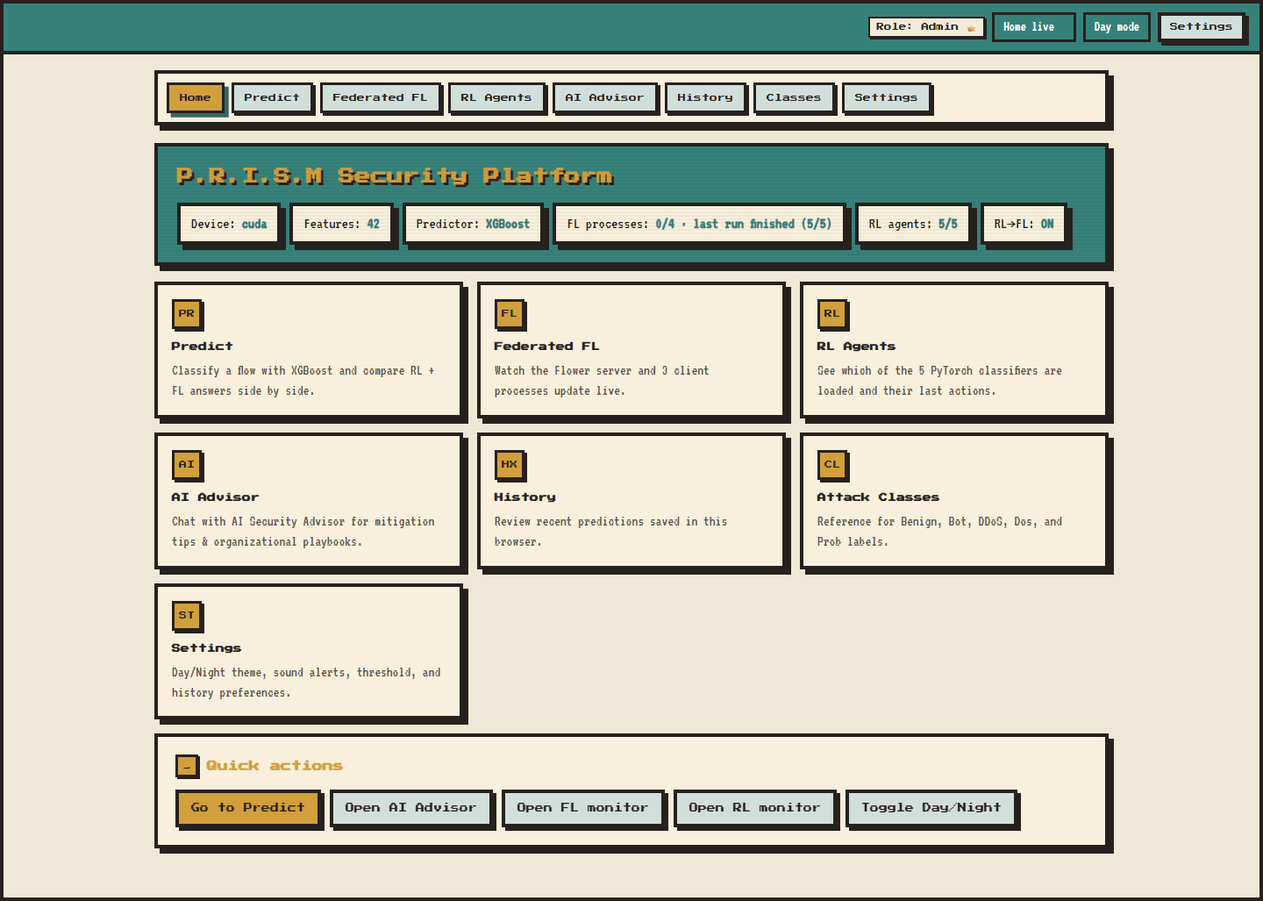
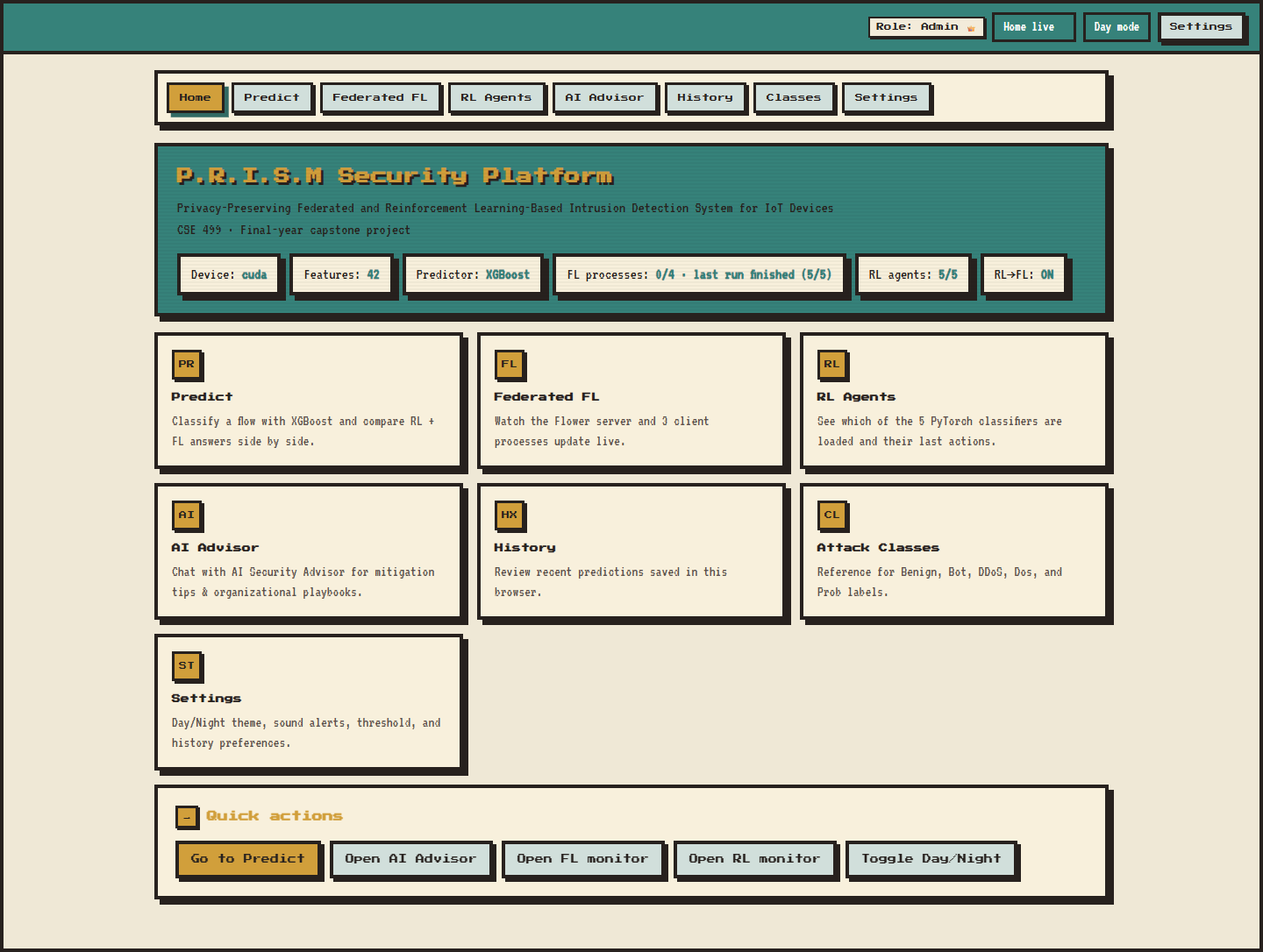
Update full project title and CSE 499 course labels

Changed region(s): [[0.0, 0.0, 1.0, 0.9659]]

diff --git a/templates/poster.html b/templates/poster.html
@@ -2,7 +2,7 @@
 <html lang="en">
 <head>
   <meta charset="UTF-8">
-  <title>A0 Research Poster — P.R.I.S.M: Privacy-Preserving Federated Reinforcement Learning</title>
+  <title>A0 Research Poster — Privacy-Preserving Federated and Reinforcement Learning-Based Intrusion Detection System for IoT Devices</title>
   <style>
     @page {
       size: A0 landscape;
@@ -238,13 +238,13 @@
   <!-- HEADER -->
   <header class="poster-header">
     <h1 class="poster-title">
-      P.R.I.S.M: Privacy-Preserving Federated and Reinforcement Learning-Based Threat Detection System for IoT Devices
+      Privacy-Preserving Federated and Reinforcement Learning-Based Intrusion Detection System for IoT Devices
     </h1>
     <div class="poster-authors">
       Research Team: Cyber-Physical Security &amp; Intelligent Networks Lab
     </div>
     <div class="poster-affiliation">
-      Department of Computer Science and Engineering (CSE499B Senior Design Project)
+      Department of Computer Science and Engineering (CSE 499 Senior Design Project)
     </div>
   </header>
 
@@ -363,7 +363,7 @@
 
   <!-- FOOTER -->
   <footer class="poster-footer">
-    <div>Project Codebase: <code>e:\CSE499B\Latest One(FL+RL)</code></div>
+    <div>Project Codebase: <code>github.com/Shahriar811/P.R.I.S.M</code></div>
     <div>Live Web Dashboard: <code>http://127.0.0.1:7860/poster</code></div>
     <div>A0 Print Size: 841mm x 1189mm</div>
   </footer>

diff --git a/templates/base.html b/templates/base.html
@@ -3,6 +3,7 @@
 <head>
 <meta charset="utf-8">
 <meta name="viewport" content="width=device-width,initial-scale=1">
+<meta name="description" content="Privacy-Preserving Federated and Reinforcement Learning-Based Intrusion Detection System for IoT Devices — CSE 499 final-year capstone project.">
 <title>{% block title %}P.R.I.S.M{% endblock %}</title>
 <script src="https://cdn.jsdelivr.net/npm/chart.js@4"></script>
 <link rel="preconnect" href="https://fonts.googleapis.com">

diff --git a/templates/home.html b/templates/home.html
@@ -3,6 +3,8 @@
 {% block content %}
 <section class="page-hero">
   <h1>P.R.I.S.M Security Platform</h1>
+  <p>Privacy-Preserving Federated and Reinforcement Learning-Based Intrusion Detection System for IoT Devices</p>
+  <p>CSE 499 · Final-year capstone project</p>
 
   <div class="stats-bar admin-only">
     <div class="stat-chip">Device: <span class="val" id="statDevice">—</span></div>

diff --git a/build_499b_report.py b/build_499b_report.py
@@ -57,7 +57,7 @@ def add_header_footer(doc):
     header = section.header
     hp = header.paragraphs[0]
     hp.alignment = WD_ALIGN_PARAGRAPH.RIGHT
-    hrun = hp.add_run("CSE499B Senior Project Report | Group 2 | Chapter 4 & Chapter 7")
+    hrun = hp.add_run("CSE 499 Senior Project Report | Group 2 | Chapter 4 & Chapter 7")
     hrun.font.name = 'Calibri'
     hrun.font.size = Pt(8.5)
     hrun.font.color.rgb = COLOR_MUTED
@@ -88,7 +88,7 @@ def add_title_block(doc):
     p2 = doc.add_paragraph()
     p2.alignment = WD_ALIGN_PARAGRAPH.CENTER
     format_paragraph(p2, space_before=0, space_after=18)
-    run2 = p2.add_run("Department of Electrical and Computer Engineering\nSenior Design Capstone Project Report (CSE499B)")
+    run2 = p2.add_run("Department of Electrical and Computer Engineering\nSenior Design Capstone Project Report (CSE 499)")
     run2.font.name = 'Calibri'
     run2.font.size = Pt(13)
     run2.font.color.rgb = COLOR_SECONDARY
@@ -96,7 +96,7 @@ def add_title_block(doc):
     p3 = doc.add_paragraph()
     p3.alignment = WD_ALIGN_PARAGRAPH.CENTER
     format_paragraph(p3, space_before=6, space_after=18)
-    run3 = p3.add_run("Privacy-Preserved Federated Learning and Reinforcement Learning Framework for Cyber-Physical Systems Intrusion Detection")
+    run3 = p3.add_run("Privacy-Preserving Federated and Reinforcement Learning-Based Intrusion Detection System for IoT Devices")
     run3.font.name = 'Calibri'
     run3.font.size = Pt(16)
     run3.font.bold = True
@@ -274,9 +274,9 @@ def build_document():
     
     add_body_p(doc, "While CSE499A successfully proved that intrusion detection can function under simulated federated data splits, it retained four critical operational limitations: (1) static detection logic vulnerable to concept drift, (2) reliance on simulated client partitioning rather than a production client-server network framework, (3) lack of continuous reinforcement learning adaptation for dynamic attack mitigation, and (4) absence of explainable AI (XAI) for real-time security analyst interpretability.")
     
-    add_body_p(doc, "This report documents the CSE499B project extension, specifically detailing the author's primary contributions across Chapter 4 (Methodology) and Chapter 7 (Practical Usage & Dashboard Application). CSE499B transitions the framework from an offline simulation into a production-grade, multi-process client-server Federated Learning (FL) architecture, an integrated Dueling Deep Q-Network (DQN) Reinforcement Learning (RL) continual learning pipeline, a dual-layer Explainable AI (SHAP + Groq Llama 3.3 70B LLM) engine, and an interactive multi-page web security dashboard with live packet sniffing and secure HTTPS remote access via ngrok.")
+    add_body_p(doc, "This report documents the CSE 499 project extension, specifically detailing the author's primary contributions across Chapter 4 (Methodology) and Chapter 7 (Practical Usage & Dashboard Application). CSE 499 transitions the framework from an offline simulation into a production-grade, multi-process client-server Federated Learning (FL) architecture, an integrated Dueling Deep Q-Network (DQN) Reinforcement Learning (RL) continual learning pipeline, a dual-layer Explainable AI (SHAP + Groq Llama 3.3 70B LLM) engine, and an interactive multi-page web security dashboard with live packet sniffing and secure HTTPS remote access via ngrok.")
 
-    add_callout_box(doc, "CSE499A achieved offline detection accuracy of 84.03% (XGBoost) and 80.35% (simulated FL-GRU). CSE499B elevates this baseline into a production-ready, client-server federated RL system with real-time continuous learning, SHAP feature impact attribution, Groq LLM natural language threat explanations, live packet sniffing, and ngrok HTTPS remote deployment.", "HISTORICAL BRIDGE: CSE499A VS CSE499B")
+    add_callout_box(doc, "CSE499A achieved offline detection accuracy of 84.03% (XGBoost) and 80.35% (simulated FL-GRU). CSE 499 elevates this baseline into a production-ready, client-server federated RL system with real-time continuous learning, SHAP feature impact attribution, Groq LLM natural language threat explanations, live packet sniffing, and ngrok HTTPS remote deployment.", "HISTORICAL BRIDGE: CSE499A VS CSE 499")
 
     # ---------------------------------------------------------
     # CHAPTER 4: METHODOLOGY
@@ -284,7 +284,7 @@ def build_document():
     add_heading_1(doc, "Chapter 4: Methodology")
     
     add_heading_2(doc, "4.1 Production Federated Learning Architecture (Main Client-Server System)")
-    add_body_p(doc, "Unlike simulation-based federated learning setups that partition static data arrays in memory within a single Python script, the CSE499B production architecture implements a decentralized, multi-process client-server system built upon the Flower (flwr) framework. The architecture decouples the central aggregator from independent edge clients, enabling federated model updates over real network interfaces via gRPC (Google Remote Procedure Call) protocols.")
+    add_body_p(doc, "Unlike simulation-based federated learning setups that partition static data arrays in memory within a single Python script, the CSE 499 production architecture implements a decentralized, multi-process client-server system built upon the Flower (flwr) framework. The architecture decouples the central aggregator from independent edge clients, enabling federated model updates over real network interfaces via gRPC (Google Remote Procedure Call) protocols.")
     
     add_body_p(doc, "The production FL system consists of two primary operational entities:", "System Component Breakdown: ")
     add_body_p(doc, "Operating via federated/rl_server.py on TCP port 8080. The server initializes global neural network weights, coordinates communication rounds, enforces minimum client quorum requirements (min_fit_clients = 3), collects client parameter updates, executes weighted Federated Averaging (FedAvg), and evaluates global test metrics against a held-out evaluation dataset (test.npz).", "1. Central FL Aggregator Server: ")
@@ -307,7 +307,7 @@ def build_document():
     add_styled_table(doc, headers_t41, data_t41, [1.8, 2.2, 2.5])
 
     add_heading_2(doc, "4.2 The RL + FL Integrated Pipeline & Working Methodology")
-    add_body_p(doc, "A central innovation of CSE499B is the integration of Reinforcement Learning (RL) with Federated Learning (FL) into a unified, self-improving security pipeline. While supervised federated learning models are rigid once trained, reinforcement learning allows defensive agents to continuously adapt to changing network behaviors and novel attack vectors.")
+    add_body_p(doc, "A central innovation of CSE 499 is the integration of Reinforcement Learning (RL) with Federated Learning (FL) into a unified, self-improving security pipeline. While supervised federated learning models are rigid once trained, reinforcement learning allows defensive agents to continuously adapt to changing network behaviors and novel attack vectors.")
 
     add_body_p(doc, "The RL framework employs a Dueling Deep Q-Network (Dueling DQN) architecture. In standard DQN, the neural network directly estimates the Q-value $Q(s, a)$ for each action $a$ given state $s$. Dueling DQN decouples this calculation into two separate streams:", "Mathematical Formulation of Dueling DQN: ")
     add_body_p(doc, "1. Value Stream $V(s): \\mathbb{R}^{42} \\rightarrow \\mathbb{R}^1$, which estimates the scalar value of being in current network state $s$.\n2. Advantage Stream $A(s, a): \\mathbb{R}^{42} \\rightarrow \\mathbb{R}^5$, which evaluates the relative advantage of choosing each specific attack class action $a \\in \\{\\text{Benign, DoS, DDoS, Bot, Prob}\\}$.")
@@ -340,7 +340,7 @@ def build_document():
     add_styled_table(doc, headers_t42, data_t42, [1.8, 2.0, 2.7])
 
     add_heading_2(doc, "4.3 Dual-Layer Explainable AI (XAI) & LLM Framework")
-    add_body_p(doc, "Machine learning and deep learning models in intrusion detection are frequently criticized as 'black boxes', making security analysts hesitant to trust automated alerts. CSE499B resolves this by introducing a Dual-Layer Explainable AI (XAI) framework that combines quantitative feature attribution with generative natural language explanations.")
+    add_body_p(doc, "Machine learning and deep learning models in intrusion detection are frequently criticized as 'black boxes', making security analysts hesitant to trust automated alerts. CSE 499 resolves this by introducing a Dual-Layer Explainable AI (XAI) framework that combines quantitative feature attribution with generative natural language explanations.")
 
     add_image_figure(doc, "xai_llm_flow.png", "Figure 4.4: Dual-Layer Explainable AI Pipeline incorporating SHAP feature attribution and Groq Llama 3.3 70B LLM explanations.")
 
@@ -369,7 +369,7 @@ def build_document():
     add_heading_1(doc, "Chapter 7: Practical Usage & Dashboard Application")
 
     add_heading_2(doc, "7.1 FL Aggregation Protocol & Privacy Infrastructure")
-    add_body_p(doc, "The deployment of federated learning in practical security operations requires a robust aggregation protocol that balances privacy protection with model convergence speed. CSE499B implements a 5-step aggregation protocol sequence over gRPC channels:")
+    add_body_p(doc, "The deployment of federated learning in practical security operations requires a robust aggregation protocol that balances privacy protection with model convergence speed. CSE 499 implements a 5-step aggregation protocol sequence over gRPC channels:")
 
     add_body_p(doc, "1. Round Initialization: The central server (rl_server.py) broadcasts current global Dueling DQN neural network parameters $w_t$ to all connected edge client nodes.\n2. Local Model Updates: Each edge client loads $w_t$, attaches its private local dataset, and executes 2 epochs of Adam optimization. Raw network flow logs remain sealed inside local storage.\n3. Weight Parameter Transmission: Edge clients extract updated state dictionaries $w_{t+1}^k$ and transmit parameter matrices along with sample count $n_k$ back to the server over gRPC on port 8080.\n4. Weighted Aggregation: The server computes the element-wise weighted average of received weight tensors using the FedAvg equation.\n5. Global State Serialization: The aggregated global model is evaluated against held-out validation data (test.npz) and saved to global_model.pt and Saved model/FL/federated_rl_fedavg.pt.")
 
@@ -388,7 +388,7 @@ def build_document():
     add_styled_table(doc, headers_t71, data_t71, [2.0, 2.0, 2.5])
 
     add_heading_2(doc, "7.2 UI/UX Design of Security Dashboard, Real-Time Alert Monitoring & Deployment")
-    add_body_p(doc, "To transform complex machine learning and federated learning pipelines into an intuitive operational tool for network administrators, CSE499B provides a responsive, multi-page web application dashboard built using Flask, Jinja2 templates, modern CSS glassmorphism, and client-side JavaScript.")
+    add_body_p(doc, "To transform complex machine learning and federated learning pipelines into an intuitive operational tool for network administrators, CSE 499 provides a responsive, multi-page web application dashboard built using Flask, Jinja2 templates, modern CSS glassmorphism, and client-side JavaScript.")
 
     add_image_figure(doc, "dashboard_deployment_architecture.png", "Figure 7.2: End-to-End System Deployment Architecture showing Flask UI, FastAPI backend, Live Packet Sniffer, and ngrok HTTPS Tunnel.")
 
@@ -402,10 +402,10 @@ def build_document():
     add_body_p(doc, "Allows bulk uploading of network traffic CSV files, generating aggregated multi-class attack breakdowns and risk summaries.", "7. CSV Batch Upload (/predict_csv): ")
 
     add_heading_3(doc, "7.2.1 Real-Time Network Alert Sniffer (live_sniffer.py)")
-    add_body_p(doc, "For live operational networks, CSE499B includes live_sniffer.py, a real-time network traffic sniffer powered by Scapy. The sniffer captures live TCP/UDP packets from local network interfaces, aggregates packet statistics into 42 flow-level numerical features (Flow Duration, Packet Lengths, Inter-Arrival Times, Header Lengths, Flags), applies scaler.joblib normalization, and submits live vectors to the inference engine. Instant alerts are triggered whenever attack traffic (DoS, DDoS, Bot, Prob) is detected.")
+    add_body_p(doc, "For live operational networks, CSE 499 includes live_sniffer.py, a real-time network traffic sniffer powered by Scapy. The sniffer captures live TCP/UDP packets from local network interfaces, aggregates packet statistics into 42 flow-level numerical features (Flow Duration, Packet Lengths, Inter-Arrival Times, Header Lengths, Flags), applies scaler.joblib normalization, and submits live vectors to the inference engine. Instant alerts are triggered whenever attack traffic (DoS, DDoS, Bot, Prob) is detected.")
 
     add_heading_3(doc, "7.2.2 Global Deployment & Remote Access (FastAPI + ngrok)")
-    add_body_p(doc, "To enable external deployment and demonstration across remote networks without exposing internal infrastructure, CSE499B integrates a dual-server architecture: Flask handles web UI rendering on port 7860, while FastAPI serves RESTful inference endpoints on port 8000. Public secure remote access is established using expose_ngrok.ps1, which creates an encrypted HTTPS tunnel (e.g., https://xxxx.ngrok-free.app) forwarding traffic directly to localhost:8000.")
+    add_body_p(doc, "To enable external deployment and demonstration across remote networks without exposing internal infrastructure, CSE 499 integrates a dual-server architecture: Flask handles web UI rendering on port 7860, while FastAPI serves RESTful inference endpoints on port 8000. Public secure remote access is established using expose_ngrok.ps1, which creates an encrypted HTTPS tunnel (e.g., https://xxxx.ngrok-free.app) forwarding traffic directly to localhost:8000.")
 
     add_image_figure(doc, "centralized_vs_fl_performance.png", "Figure 7.3: Performance Comparison Bar Chart between 499A Centralized Baselines and 499B Federated & RL Models.")
 
@@ -427,7 +427,7 @@ def build_document():
     # CONCLUSION & FUTURE WORK
     # ---------------------------------------------------------
     add_heading_1(doc, "Conclusion & Future Work")
-    add_body_p(doc, "The CSE499B project extension successfully elevates the intrusion detection framework from an offline simulation into a production-grade, privacy-preserved, self-improving security application. By combining Flower-based multi-process Federated Learning over gRPC with Dueling DQN Reinforcement Learning continual learning, dual-layer SHAP + Groq LLM Explainable AI, live packet sniffing, and ngrok HTTPS remote deployment, the system addresses all key research gaps identified in CSE499A.")
+    add_body_p(doc, "The CSE 499 project extension successfully elevates the intrusion detection framework from an offline simulation into a production-grade, privacy-preserved, self-improving security application. By combining Flower-based multi-process Federated Learning over gRPC with Dueling DQN Reinforcement Learning continual learning, dual-layer SHAP + Groq LLM Explainable AI, live packet sniffing, and ngrok HTTPS remote deployment, the system addresses all key research gaps identified in CSE499A.")
 
     add_body_p(doc, "Future work will focus on expanding the edge client population to 50+ heterogeneous IoT nodes, integrating differential privacy noise injection within FedAvg rounds, and deploying custom 1D-CNN + Bi-GRU + Self-Attention deep learning architectures for enhanced feature representation.")
 

diff --git a/scripts/build_practical_usage_docx.py b/scripts/build_practical_usage_docx.py
@@ -63,7 +63,7 @@ def add_header_footer(doc):
     header = section.header
     hp = header.paragraphs[0]
     hp.alignment = WD_ALIGN_PARAGRAPH.RIGHT
-    hrun = hp.add_run("CSE499B Senior Design Project | Chapter 7: Practical Usage & Dashboard Application")
+    hrun = hp.add_run("CSE 499 Senior Design Project | Chapter 7: Practical Usage & Dashboard Application")
     hrun.font.name = 'Calibri'
     hrun.font.size = Pt(8.5)
     hrun.font.color.rgb = COLOR_MUTED
@@ -89,7 +89,7 @@ def add_title_block(doc):
     p_sub = doc.add_paragraph()
     p_sub.alignment = WD_ALIGN_PARAGRAPH.CENTER
     format_paragraph(p_sub, space_before=0, space_after=12)
-    r_sub = p_sub.add_run("End-to-End Operational Deployment, Multi-Page Security Dashboard, Real-Time Network Sniffing, Dual-Layer Explainable AI & RESTful Cloud Ingress\nSenior Design Capstone Project Report (CSE499B)")
+    r_sub = p_sub.add_run("End-to-End Operational Deployment, Multi-Page Security Dashboard, Real-Time Network Sniffing, Dual-Layer Explainable AI & RESTful Cloud Ingress\nSenior Design Capstone Project Report (CSE 499)")
     r_sub.font.name = 'Calibri'
     r_sub.font.size = Pt(10.5)
     r_sub.font.italic = True
@@ -245,15 +245,15 @@ def generate_practical_usage_document():
     add_title_block(doc)
     
     # ---------------------------------------------------------
-    # 7.1 Historical Evolution: CSE499A vs CSE499B Dashboard
+    # 7.1 Historical Evolution: CSE499A vs CSE 499 Dashboard
     # ---------------------------------------------------------
     add_heading_1(doc, "7.1 Evolution of the Operational Security Dashboard (499A to 499B)")
     add_body_p(doc, "In the CSE499A research phase, intrusion detection evaluation was primarily delivered through static Jupyter notebook scripts, paired with a minimal FastAPI prototype providing only two basic functions: simple CSV uploading and raw tabular text output. While sufficient for offline baseline verification, the 499A implementation lacked interactive telemetry controls, real-time alert mechanisms, explainable AI explanations, and production-grade federated monitoring.")
     
-    add_body_p(doc, "The CSE499B project extension completely reimagines the operational interface into an enterprise-ready, multi-page Security Operations Center (SOC) dashboard. Built with Flask, Jinja2 templating, dynamic CSS glassmorphism, client-side asynchronous JavaScript, and RESTful API backends, the new dashboard transforms complex machine learning, federated averaging, and reinforcement learning pipelines into an intuitive, real-time command center for cybersecurity administrators.")
+    add_body_p(doc, "The CSE 499 project extension completely reimagines the operational interface into an enterprise-ready, multi-page Security Operations Center (SOC) dashboard. Built with Flask, Jinja2 templating, dynamic CSS glassmorphism, client-side asynchronous JavaScript, and RESTful API backends, the new dashboard transforms complex machine learning, federated averaging, and reinforcement learning pipelines into an intuitive, real-time command center for cybersecurity administrators.")
 
     # Table 7.1: Evolution Comparison
-    headers_t71 = ["Operational Dimension", "CSE499A Foundation Baseline", "CSE499B Production Dashboard System", "Operational Benefit"]
+    headers_t71 = ["Operational Dimension", "CSE499A Foundation Baseline", "CSE 499 Production Dashboard System", "Operational Benefit"]
     data_t71 = [
         ["Web Framework", "FastAPI (Basic 2-route backend)", "Flask + Jinja2 + Asynchronous REST API", "Full multi-page responsive web dashboard"],
         ["User Interface Pages", "Single static HTML page", "7 Dedicated Functional View Pages", "Specialized views for Predict, FL, RL, History, Settings"],
@@ -267,7 +267,7 @@ def generate_practical_usage_document():
     align_t71 = [WD_ALIGN_PARAGRAPH.LEFT, WD_ALIGN_PARAGRAPH.LEFT, WD_ALIGN_PARAGRAPH.LEFT, WD_ALIGN_PARAGRAPH.LEFT]
     add_styled_table(doc, headers_t71, data_t71, [1.3, 1.6, 1.8, 2.1], align_t71)
 
-    add_callout_box(doc, "CSE499B transitions the user interface from a rudimentary offline demonstration into an enterprise-grade SOC platform, enabling real-time tri-model inference, plain-English LLM threat explainability, live Scapy packet sniffing, and continuous human-in-the-loop federated model synchronization.", "OPERATIONAL PARADIGM SHIFT")
+    add_callout_box(doc, "CSE 499 transitions the user interface from a rudimentary offline demonstration into an enterprise-grade SOC platform, enabling real-time tri-model inference, plain-English LLM threat explainability, live Scapy packet sniffing, and continuous human-in-the-loop federated model synchronization.", "OPERATIONAL PARADIGM SHIFT")
 
     # ---------------------------------------------------------
     # 7.2 End-to-End System Deployment Architecture
@@ -314,7 +314,7 @@ def generate_practical_usage_document():
     # 7.4 Tri-Model Consensus & Real-Time Alert Engine
     # ---------------------------------------------------------
     add_heading_1(doc, "7.4 Tri-Model Consensus & Real-Time Alert Monitoring Engine")
-    add_body_p(doc, "Rather than relying on a single fallible classifier, CSE499B deploys a multi-model consensus architecture that cross-references three distinct analytical paradigms for every network flow:")
+    add_body_p(doc, "Rather than relying on a single fallible classifier, CSE 499 deploys a multi-model consensus architecture that cross-references three distinct analytical paradigms for every network flow:")
 
     # Table 7.2: Tri-Model Architecture
     headers_t72 = ["Model Layer", "Active Model / Architecture", "Analytical Role in Pipeline", "Operational Decision Logic"]
@@ -333,7 +333,7 @@ def generate_practical_usage_document():
     # 7.5 Dual-Layer Explainable AI (XAI) & Generative Threat Synthesis
     # ---------------------------------------------------------
     add_heading_1(doc, "7.5 Dual-Layer Explainable AI (XAI) & Generative Threat Synthesis")
-    add_body_p(doc, "To eliminate the traditional 'black-box' opacity of machine learning in cybersecurity, CSE499B integrates a dual-layer XAI framework combining quantitative feature attribution with generative natural language synthesis:")
+    add_body_p(doc, "To eliminate the traditional 'black-box' opacity of machine learning in cybersecurity, CSE 499 integrates a dual-layer XAI framework combining quantitative feature attribution with generative natural language synthesis:")
 
     add_bullet(doc, "For tree models, exact Shapley values are calculated via shap.TreeExplainer. For neural networks and fallback models, normalized feature deviation impact vectors phi_i = I_i * (x_i - mu_i) are computed, extracting the top 8 positive and negative network features influencing the decision.", "Layer 1 — SHAP Quantitative Attribution: ")
     add_bullet(doc, "Operating via groq_explain.py, feature impact vectors, model predictions, confidence scores, and agreement states are compiled into a structured prompt sent to Groq Cloud running Llama 3.3 70B Versatile (llama-3.3-70b-versatile). The LLM returns a structured 3-bullet briefing explaining: (1) Threat Nature, (2) Critical Network Signals, and (3) Recommended Mitigation.", "Layer 2 — Generative LLM Threat Briefing: ")

diff --git a/scripts/build_universal_docx.py b/scripts/build_universal_docx.py
@@ -26,12 +26,12 @@ def code(t):
     r.font.name = 'Consolas'; r.font.size = Pt(9.5)
     r.font.color.rgb = RGBColor(0x1F, 0x49, 0x7D)
 
-doc.add_heading('SDN-IoT IDS — Universal Guide (FL + RL Combined)', 0)
+doc.add_heading('Privacy-Preserving Federated and Reinforcement Learning-Based Intrusion Detection System for IoT Devices', 0)
 sub = doc.add_paragraph('Latest One (FL+RL) package — how Federated Learning and Reinforcement Learning were executed, combined, and how to improve the system further.')
 sub.runs[0].italic = True
 
 h1('1. What this package is')
-p('Folder: E:\\CSE499B\\Latest One(FL+RL)')
+p('Folder: project root (P.R.I.S.M checkout)')
 bullet('IDS_FL_RL_Combined.ipynb — full pipeline (Sections 1–8 training identical to IDS_Advanced_GPU; Sections 9–10 = real FL + 5 RL agents)')
 bullet('Saved model/ — TM, DL, RL, FL checkpoints + scaler / label encoder / feature columns')
 bullet('federated/ — 1 Flower server + 3 clients (real multi-process FedAvg)')
@@ -73,7 +73,7 @@ p('That dual-path inference is the UI proof that FL and RL are live systems, not
 h1('3. How to execute everything')
 h2('3.1 One-time setup')
 num('Open IDS_FL_RL_Combined.ipynb in the Latest One(FL+RL) folder')
-num('Ensure ASEADOS_SDN_IoT.csv is reachable (parent E:\\CSE499B\\ or project root)')
+num('Ensure ASEADOS_SDN_IoT.csv is reachable in the project root or its parent folder')
 num('Run Section 1 install cell (flwr, gymnasium optional, flask, torch CUDA build, etc.)')
 
 h2('3.2 Train supervised models')
@@ -160,7 +160,7 @@ bullet('UI says best model missing → run Sections 5 + 11 so xgboost.joblib exi
 bullet('FL clients hang → start server first; FL_CLIENTS must be 3; firewall must allow 8080')
 bullet('RL box shows “not loaded” → run Section 10 then restart ids_server.py')
 bullet('CUDA false → install CUDA PyTorch wheel matching your GPU')
-bullet('Dataset not found → place ASEADOS_SDN_IoT.csv in E:\\CSE499B\\ or the project folder')
+bullet('Dataset not found → place ASEADOS_SDN_IoT.csv in the project folder or its parent')
 
 doc.save(OUT)
 print('Wrote', OUT)

diff --git a/scripts/build_fl_performance_docx.py b/scripts/build_fl_performance_docx.py
@@ -63,7 +63,7 @@ def add_header_footer(doc):
     header = section.header
     hp = header.paragraphs[0]
     hp.alignment = WD_ALIGN_PARAGRAPH.RIGHT
-    hrun = hp.add_run("CSE499B Senior Design Project | Reinforcement & Federated Learning Performance")
+    hrun = hp.add_run("CSE 499 Senior Design Project | Reinforcement & Federated Learning Performance")
     hrun.font.name = 'Calibri'
     hrun.font.size = Pt(8.5)
     hrun.font.color.rgb = COLOR_MUTED
@@ -315,7 +315,7 @@ def generate_report():
     # 4. Integrated RL + FL Pipeline & Continual Learning Synergy
     # ---------------------------------------------------------
     add_heading_1(doc, "4. Integrated RL + FL Pipeline & Continual Learning Synergy")
-    add_body_p(doc, "The primary architectural breakthrough of CSE499B is the operational coupling of Reinforcement Learning and Federated Learning into a self-improving security ecosystem. The RL->FL workflow operates via three continuous stages:")
+    add_body_p(doc, "The primary architectural breakthrough of CSE 499 is the operational coupling of Reinforcement Learning and Federated Learning into a self-improving security ecosystem. The RL->FL workflow operates via three continuous stages:")
     
     add_bullet(doc, "Each edge node runs a local Dueling DQN agent. When incoming packet flows arrive, the agent selects defense actions while populating a local Experience Replay Buffer (capacity: 10,000 transitions).", "Stage 1 — Local RL Adaptation: ")
     add_bullet(doc, "Flows with prediction confidence < 0.70 or where the Local RL agent disagrees with the Global FL consensus are flagged by the RLFLSyncManager as novel attack candidates.", "Stage 2 — Novelty & Disagreement Flagging: ")

diff --git a/scripts/build_combined_notebook.py b/scripts/build_combined_notebook.py
@@ -261,7 +261,7 @@ __SAVE_MSG__
 
 def patch_combined(nb):
     cells = nb["cells"]
-    set_src(cells[0], """# Advanced Intrusion Detection System for SDN-IoT
+    set_src(cells[0], """# Privacy-Preserving Federated and Reinforcement Learning-Based Intrusion Detection System for IoT Devices
 ## Traditional ML + Deep Learning + Custom + Real Federated Learning + Multi-Agent RL
 
 **Dataset:** `ASEADOS_SDN_IoT.csv`

diff --git a/generate_report_assets.py b/generate_report_assets.py
@@ -1,7 +1,7 @@
 """
 generate_report_assets.py
 =========================
-Renders 8 high-resolution (300 DPI) visual assets for the CSE499B Project Report:
+Renders 8 high-resolution (300 DPI) visual assets for the CSE 499 Project Report:
 1. fl_main_architecture.png
 2. rl_fl_integrated_pipeline.png
 3. xai_llm_flow.png

diff --git a/README.md b/README.md
@@ -1,12 +1,10 @@
 <p align="center">
-  <img src="docs/images/prism-banner.svg" alt="P.R.I.S.M — SDN-IoT intrusion detection, final-year capstone project" width="100%">
+  <img src="docs/images/prism-banner.svg" alt="Privacy-Preserving Federated and Reinforcement Learning-Based Intrusion Detection System for IoT Devices — P.R.I.S.M, CSE 499 capstone project" width="100%">
 </p>
 
-# P.R.I.S.M
+# Privacy-Preserving Federated and Reinforcement Learning-Based Intrusion Detection System for IoT Devices
 
-### Intrusion Detection for SDN and IoT with Federated and Reinforcement Learning
-
-**Final-year project · Capstone project · CSE499B**
+**P.R.I.S.M · Final-year project · Capstone project · CSE 499**
 
 P.R.I.S.M is my final-year capstone project exploring how supervised learning,
 reinforcement learning, federated training, and explainable AI can work together

diff --git a/GITHUB_UPLOAD.md b/GITHUB_UPLOAD.md
@@ -45,14 +45,12 @@ Sources: [GitHub file limits](https://docs.github.com/en/repositories/working-wi
    initialization unchecked so the remote is empty.
 2. Replace the repository URL below. If Git asks for your identity, use your
    preferred name and GitHub email (or your GitHub-provided noreply email).
-3. Open **Git Bash** and paste this block. The subshell stops at the first failed
+3. Open **Git Bash** in your local project folder and paste this block. The subshell stops at the first failed
    step. All excluded files stay on disk.
 
 ```bash
 (
   set -e
-  cd '/e/CSE499B/Latest One(FL+RL)'
-
   git init -b main
   # Only if Git has no commit identity configured:
   # git config user.name 'Your Name'
